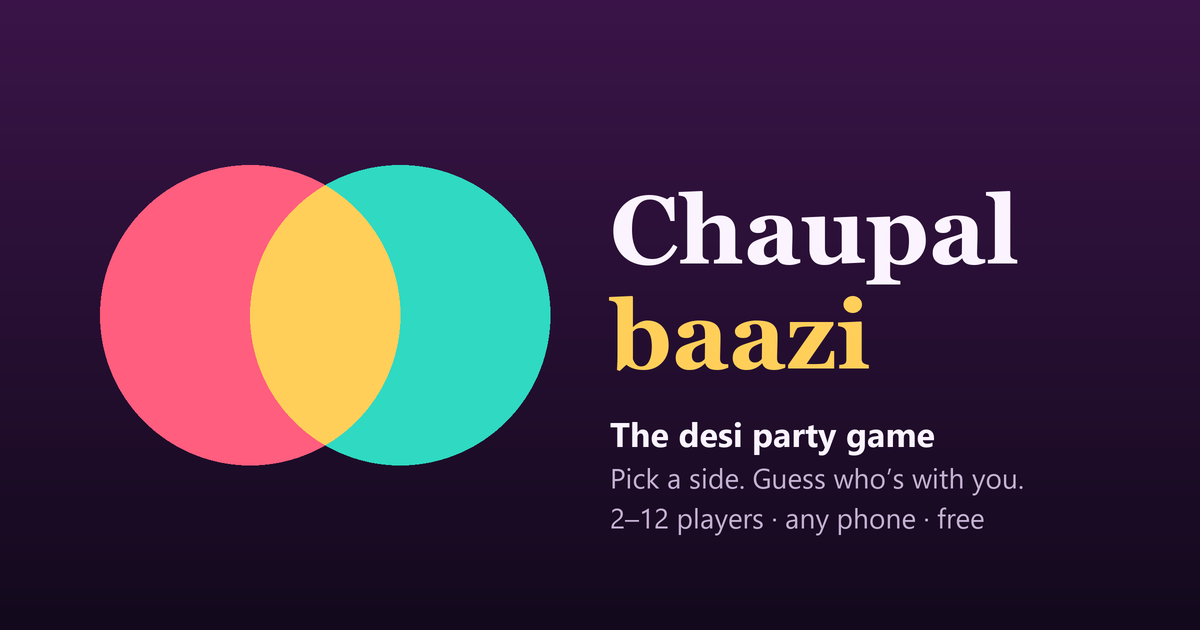
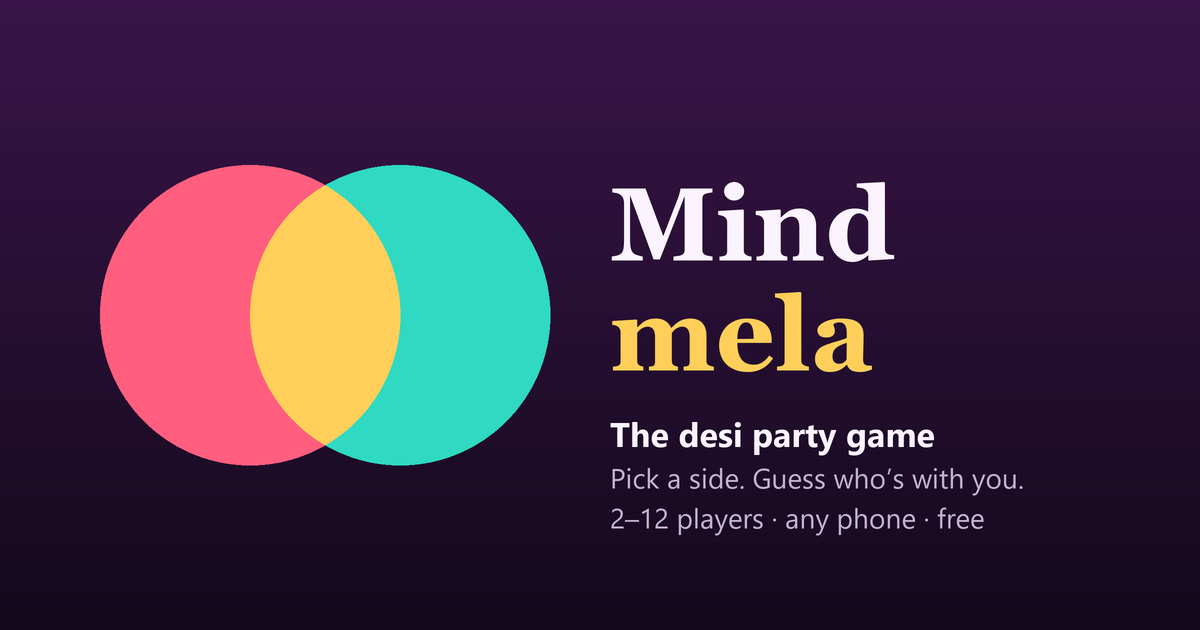
Rename the game to Mindmela
A more professional name that is still unused anywhere online. Updates
the page title, search data, share image, app name, links and README.

Changed region(s): [[0.4933, 0.2714, 0.8633, 0.6032]]

diff --git a/index.html b/index.html
@@ -3,42 +3,42 @@
 <head>
   <meta charset="utf-8">
   <meta name="viewport" content="width=device-width, initial-scale=1, viewport-fit=cover">
-  <title>Chaupalbaazi – Free Desi Party Game for Friends &amp; Family</title>
-  <meta name="description" content="Chaupalbaazi is a free desi party game. Pick a side on funny Hinglish questions from Meerut and Bulandshahr, guess who's with you, and play live with 2–12 friends on any phone.">
-  <meta name="keywords" content="Chaupalbaazi, desi party game, Hinglish game, online party game India, would you rather Hindi, Meerut, Bulandshahr, multiplayer phone game">
+  <title>Mindmela – Free Desi Party Game for Friends &amp; Family</title>
+  <meta name="description" content="Mindmela is a free desi party game. Pick a side on funny Hinglish questions from Meerut and Bulandshahr, guess who's with you, and play live with 2–12 friends on any phone.">
+  <meta name="keywords" content="Mindmela, Mind Mela, desi party game, Hinglish game, online party game India, would you rather Hindi, Meerut, Bulandshahr, multiplayer phone game">
   <meta name="author" content="Lalit Bhardwaj">
   <meta name="robots" content="index, follow">
-  <link rel="canonical" href="https://lalitbhardwaj2002.github.io/chaupalbaazi/">
+  <link rel="canonical" href="https://lalitbhardwaj2002.github.io/mindmela/">
   <meta name="theme-color" content="#12091c">
 
   <meta property="og:type" content="website">
-  <meta property="og:site_name" content="Chaupalbaazi">
-  <meta property="og:title" content="Chaupalbaazi – the desi party game">
+  <meta property="og:site_name" content="Mindmela">
+  <meta property="og:title" content="Mindmela – the desi party game">
   <meta property="og:description" content="Pick a side. Guess who's with you. Free, live, 2–12 players on any phone — no sign-up.">
-  <meta property="og:url" content="https://lalitbhardwaj2002.github.io/chaupalbaazi/">
-  <meta property="og:image" content="https://lalitbhardwaj2002.github.io/chaupalbaazi/og-image.png">
+  <meta property="og:url" content="https://lalitbhardwaj2002.github.io/mindmela/">
+  <meta property="og:image" content="https://lalitbhardwaj2002.github.io/mindmela/og-image.png">
   <meta property="og:image:width" content="1200">
   <meta property="og:image:height" content="630">
   <meta property="og:locale" content="en_IN">
   <meta name="twitter:card" content="summary_large_image">
-  <meta name="twitter:title" content="Chaupalbaazi – the desi party game">
+  <meta name="twitter:title" content="Mindmela – the desi party game">
   <meta name="twitter:description" content="Pick a side. Guess who's with you. Free, live, 2–12 players on any phone.">
-  <meta name="twitter:image" content="https://lalitbhardwaj2002.github.io/chaupalbaazi/og-image.png">
+  <meta name="twitter:image" content="https://lalitbhardwaj2002.github.io/mindmela/og-image.png">
 
   <script type="application/ld+json">
   {
     "@context": "https://schema.org",
     "@type": "WebApplication",
-    "name": "Chaupalbaazi",
-    "alternateName": ["Chaupal Baazi", "Chaupalbazi"],
-    "url": "https://lalitbhardwaj2002.github.io/chaupalbaazi/",
+    "name": "Mindmela",
+    "alternateName": ["Mind Mela", "MindMela"],
+    "url": "https://lalitbhardwaj2002.github.io/mindmela/",
     "description": "A free desi party game. Pick a side on funny Hinglish questions, guess how many friends picked the same, and play live with 2–12 players on any phone.",
     "applicationCategory": "GameApplication",
     "genre": "Party game",
     "operatingSystem": "Any",
     "browserRequirements": "Requires a modern web browser",
     "inLanguage": ["en-IN", "hi-Latn"],
-    "image": "https://lalitbhardwaj2002.github.io/chaupalbaazi/og-image.png",
+    "image": "https://lalitbhardwaj2002.github.io/mindmela/og-image.png",
     "offers": { "@type": "Offer", "price": "0", "priceCurrency": "INR" },
     "author": { "@type": "Person", "name": "Lalit Bhardwaj" }
   }
@@ -49,7 +49,7 @@
   <link rel="apple-touch-icon" href="icons/apple-touch-icon.png">
   <meta name="mobile-web-app-capable" content="yes">
   <meta name="apple-mobile-web-app-capable" content="yes">
-  <meta name="apple-mobile-web-app-title" content="Chaupalbaazi">
+  <meta name="apple-mobile-web-app-title" content="Mindmela">
   <meta name="apple-mobile-web-app-status-bar-style" content="black-translucent">
   <link rel="preconnect" href="https://fonts.googleapis.com">
   <link rel="preconnect" href="https://fonts.gstatic.com" crossorigin>
@@ -59,14 +59,14 @@
 <body data-screen="home">
   <main id="app" class="app" aria-live="polite">
     <section class="hero">
-      <h1 class="title">Chaupal<em>baazi</em></h1>
+      <h1 class="title">Mind<em>mela</em></h1>
       <p class="tagline">The desi party game: pick a side, guess who’s with you.</p>
     </section>
   </main>
 
   <footer class="about">
-    <h2>What is Chaupalbaazi?</h2>
-    <p>Chaupalbaazi is a free online desi party game for 2–12 players, inspired by the village <em>chaupal</em> where everyone gathers to argue about everything. Each round asks a funny Hinglish question — <em>Sarkari naukri ya private?</em> <em>Meerut ki gajak ya Khurja ki khurchan?</em> — and you guess how many of your friends picked the same answer as you.</p>
+    <h2>What is Mindmela?</h2>
+    <p>Mindmela (Mind Mela) is a free online desi party game for 2–12 players: a <em>mela</em> of minds, where everyone brings an opinion and the fun is guessing who thinks like you. Each round asks a funny Hinglish question — <em>Sarkari naukri ya private?</em> <em>Meerut ki gajak ya Khurja ki khurchan?</em> — and you guess how many of your friends picked the same answer as you.</p>
     <h2>How to play</h2>
     <ol>
       <li>One person creates a room and shares the 4-letter code or QR code.</li>
@@ -75,8 +75,8 @@
       <li>See who picked what, argue about it, and win awards like The Rebel and Twin Souls.</li>
     </ol>
     <h2>Thousands of desi questions</h2>
-    <p>Question packs include Desi Bulandshahr, Meerut Side, Family, Grown-ups and Hot Takes, with over 9,000 questions about food, weddings, relatives, jobs, villages and more. Play a quick game or go endless. Chaupalbaazi works in any browser and can be installed on your phone like an app.</p>
-    <p class="made">Made with ❤ in western UP · <a href="https://github.com/Lalitbhardwaj2002/chaupalbaazi">Source code</a></p>
+    <p>Question packs include Desi Bulandshahr, Meerut Side, Family, Grown-ups and Hot Takes, with over 9,000 questions about food, weddings, relatives, jobs, villages and more. Play a quick game or go endless. Mindmela works in any browser and can be installed on your phone like an app.</p>
+    <p class="made">Made with ❤ in western UP · <a href="https://github.com/Lalitbhardwaj2002/mindmela">Source code</a></p>
   </footer>
 
   <div id="banner" class="banner" role="status" hidden></div>

diff --git a/game.js b/game.js
@@ -1,4 +1,4 @@
-/* Chaupalbaazi — a real-time desi party game.
+/* Mindmela — a real-time desi party game.
  *
  * Each question has two answers. Everyone picks a side, then guesses how many
  * people (including themselves) picked the same. Exactly right scores 3,
@@ -20,7 +20,7 @@
 'use strict';
 
 const CONFIG = {
-  peerPrefix: 'chaupalbaazi-v1-',
+  peerPrefix: 'mindmela-v1-',
   answerSeconds: 30,
   revealSeconds: 60, // the host usually moves on sooner; this keeps a stalled game going
   maxPlayers: 12,
@@ -131,10 +131,10 @@ function championPrompt(s, used) {
 
 // Who am I? The id lives in sessionStorage, so it survives a refresh but each tab is its own player.
 const me = {
-  id: store.get('sessionStorage', 'cb-id') || makeId(),
-  name: store.get('localStorage', 'cb-name') || '',
+  id: store.get('sessionStorage', 'mm-id') || makeId(),
+  name: store.get('localStorage', 'mm-name') || '',
 };
-store.set('sessionStorage', 'cb-id', me.id);
+store.set('sessionStorage', 'mm-id', me.id);
 
 const ui = {
   screen: 'home',   // home | busy | error | game
@@ -166,7 +166,7 @@ function openRoom(code, saved = null, attempt = 0) {
     if (saved) host.state.players.forEach((p) => { if (p.id !== me.id) p.connected = false; });
     else addPlayer(me.id, me.name);
     net = { role: 'host', code };
-    store.set('sessionStorage', 'cb-role', 'host');
+    store.set('sessionStorage', 'mm-role', 'host');
     setRoomInUrl(code);
     resumeHostTimer();
     clearInterval(host.loop);
@@ -450,7 +450,7 @@ function resumeHostTimer() {
 }
 
 function hostChanged() {
-  store.set('sessionStorage', 'cb-host', JSON.stringify({ state: host.state, answers: host.answers }));
+  store.set('sessionStorage', 'mm-host', JSON.stringify({ state: host.state, answers: host.answers }));
   broadcast();
 }
 
@@ -510,7 +510,7 @@ function joinRoom(code) {
     reconnectingSince: 0, retryTimer: null, watch: null,
   };
   net = g;
-  store.set('sessionStorage', 'cb-role', 'guest');
+  store.set('sessionStorage', 'mm-role', 'guest');
   setRoomInUrl(code);
   makeGuestPeer(g);
   g.watch = setInterval(guestWatchdog, CONFIG.heartbeatMs);
@@ -625,8 +625,8 @@ function leaveGame() {
 }
 
 function forgetRoom() {
-  store.del('sessionStorage', 'cb-role');
-  store.del('sessionStorage', 'cb-host');
+  store.del('sessionStorage', 'mm-role');
+  store.del('sessionStorage', 'mm-host');
   ui.view = null;
   ui.stageKey = '';
 }
@@ -1048,7 +1048,7 @@ function renderHome() {
        </form>`;
   app.innerHTML = `
     <section class="hero">
-      <h1 class="title">Chaupal<em>baazi</em></h1>
+      <h1 class="title">Mind<em>mela</em></h1>
       <p class="tagline">The desi party game: pick a side, guess who’s with you.</p>
       <div class="demo" aria-hidden="true"><span class="da">🍬 Meerut ki gajak</span><span class="dor">or</span><span class="db">🍮 Khurja ki khurchan</span></div>
     </section>
@@ -1091,7 +1091,7 @@ function enterGame() {
 // When the host runs the game on their own computer, "localhost" in a link would point at each
 // friend's own phone. Rooms meet on the PeerJS server whichever copy of the game people open,
 // so local hosts send friends to the public site instead.
-const PUBLIC_URL = 'https://lalitbhardwaj2002.github.io/chaupalbaazi/';
+const PUBLIC_URL = 'https://lalitbhardwaj2002.github.io/mindmela/';
 const isLocalHost = () => location.protocol === 'file:'
   || ['localhost', '127.0.0.1', '[::1]'].includes(location.hostname) || location.hostname.endsWith('.localhost');
 const joinBase = () => (isLocalHost() ? PUBLIC_URL : `${location.origin}${location.pathname}`);
@@ -1176,7 +1176,7 @@ const actions = {
   copy: copyInvite,
   share() {
     const code = ui.view.code;
-    navigator.share({ title: 'Chaupalbaazi', text: `Join my Chaupalbaazi game! Room code ${code}`, url: inviteUrl(code) }).catch(() => {});
+    navigator.share({ title: 'Mindmela', text: `Join my Mindmela game! Room code ${code}`, url: inviteUrl(code) }).catch(() => {});
   },
   async install() {
     if (!installPrompt) return;
@@ -1208,7 +1208,7 @@ document.addEventListener('submit', (e) => {
   const name = cleanName(nameInput && nameInput.value);
   if (!name) { flagInvalid('name-field', nameInput); return; }
   me.name = name;
-  store.set('localStorage', 'cb-name', name);
+  store.set('localStorage', 'mm-name', name);
   sfx.unlock();
   if (form.dataset.form === 'create') {
     openRoom(randomCode());
@@ -1284,7 +1284,7 @@ function releaseWakeLock() { if (wakeLock) wakeLock.release().catch(() => {}); w
 // ---------- sound (synthesised, no audio files) ----------
 const sfx = (() => {
   let ctx = null;
-  let muted = store.get('localStorage', 'cb-muted') === '1';
+  let muted = store.get('localStorage', 'mm-muted') === '1';
   const ready = () => ctx && !muted;
   function tone(freq, start, dur, type = 'triangle', vol = 0.12, slideTo = 0) {
     if (!ready()) return;
@@ -1309,7 +1309,7 @@ const sfx = (() => {
         if (ctx && ctx.state === 'suspended') ctx.resume();
       } catch { /* no audio */ }
     },
-    toggle() { muted = !muted; store.set('localStorage', 'cb-muted', muted ? '1' : '0'); return muted; },
+    toggle() { muted = !muted; store.set('localStorage', 'mm-muted', muted ? '1' : '0'); return muted; },
     tick: () => tone(1250, 0, 0.05, 'square', 0.035),
     pick: () => tone(620, 0, 0.08),
     start() { tone(392, 0, 0.14); tone(587, 0.12, 0.22); },
@@ -1334,10 +1334,10 @@ function boot() {
     return;
   }
   const code = normalizeCode(new URLSearchParams(location.search).get('room'));
-  const role = store.get('sessionStorage', 'cb-role');
+  const role = store.get('sessionStorage', 'mm-role');
   if (code && role === 'host') {
     let saved = null;
-    try { saved = JSON.parse(store.get('sessionStorage', 'cb-host') || 'null'); } catch { /* corrupt: start fresh */ }
+    try { saved = JSON.parse(store.get('sessionStorage', 'mm-host') || 'null'); } catch { /* corrupt: start fresh */ }
     if (savedGameUsable(saved) && saved.state.code === code) { openRoom(code, saved); return; }
   }
   if (code && role === 'guest' && me.name) { joinRoom(code); return; }

diff --git a/sw.js b/sw.js
@@ -1,11 +1,11 @@
-/* Service worker: lets Chaupalbaazi install as an app and open instantly.
+/* Service worker: lets Mindmela install as an app and open instantly.
  * Game files are fetched from the network first, so players always get the latest version,
  * with the saved copy as a fallback. The CDN libraries and fonts never change at a given URL,
  * so they're served from the saved copy once fetched.
  */
 'use strict';
 
-const CACHE = 'chaupalbaazi-v1';
+const CACHE = 'mindmela-v1';
 const SHELL = ['./', './index.html', './style.css', './game.js', './questions.js', './manifest.json',
   './icons/icon-192.png', './icons/icon-512.png'];
 const CDN = ['https://cdnjs.cloudflare.com/ajax/libs/peerjs/1.5.4/peerjs.min.js',

diff --git a/questions.js b/questions.js
@@ -1,4 +1,4 @@
-/* Questions for Chaupalbaazi — in Hinglish, with a west UP (Bulandshahr and Meerut) flavour.
+/* Questions for Mindmela — in Hinglish, with a west UP (Bulandshahr and Meerut) flavour.
  *
  * PACKS holds hand-written questions: [question, 'emoji Answer A', 'emoji Answer B'].
  * GEN holds the question generator's ingredients. Each category has question frames and a pool

diff --git a/README.md b/README.md
@@ -1,10 +1,10 @@
-# 🔮 Chaupalbaazi — the desi party game
+# 🔮 Mindmela — the desi party game
 
 **Pick a side. Guess who's with you.**
 
-Chaupalbaazi is a free live party game for 2–12 players. The name mixes the village *chaupal*, where everyone gathers to argue, with *baazi*, a game. The game itself is in English; the questions are in desi Hinglish from Meerut and Bulandshahr. Friends join from any phone with a 4-letter room code or a QR scan, with no sign-up, and it installs on your phone like an app.
+Mindmela is a free live party game for 2–12 players. The name means a *mela* (fair) of minds: everyone brings an opinion, and the fun is guessing who thinks like you. The game itself is in English; the questions are in desi Hinglish from Meerut and Bulandshahr. Friends join from any phone with a 4-letter room code or a QR scan, with no sign-up, and it installs on your phone like an app.
 
-**Play now:** https://lalitbhardwaj2002.github.io/chaupalbaazi/
+**Play now:** https://lalitbhardwaj2002.github.io/mindmela/
 
 ## How to play
 
@@ -51,17 +51,17 @@ A room never sees the same pair of answers twice until it has used up the pack. 
 
 ## Getting found in search
 
-"Chaupalbaazi" is a made-up word that no other website uses, so once search engines list the site, searching for it should bring up this game. The page includes:
+"Mindmela" is a made-up word that no other website uses, so once search engines list the site, searching for it should bring up this game. The page includes:
 
 - A search title, description and keywords, and a share preview image (`og-image.png`)
 - Structured data that tells Google it's a free web game
-- A "What is Chaupalbaazi?" section on the home page that search engines can read
+- A "What is Mindmela?" section on the home page that search engines can read
 - `sitemap.xml`, plus a Bing/IndexNow key file (`fa5abe8ca70029f6cf7b3495dd5bdf01.txt`)
 
 **To get on Google faster (needs your Google account, about 5 minutes):**
 
 1. Go to https://search.google.com/search-console and click **Add property** → **URL prefix**.
-2. Enter `https://lalitbhardwaj2002.github.io/chaupalbaazi/`.
+2. Enter `https://lalitbhardwaj2002.github.io/mindmela/`.
 3. Choose the **HTML tag** method. Copy the `<meta name="google-site-verification" …>` tag and add it to `index.html` next to the other `<meta>` tags. Push the change, then click **Verify**.
 4. Open **Sitemaps** and submit `sitemap.xml`.
 5. Open **URL inspection**, paste the play link, and click **Request indexing**.
@@ -94,4 +94,4 @@ Then open http://localhost:8000. When you host from your own computer, the QR co
 
 ## Project description (for your submission)
 
-> **Chaupalbaazi** is a desi party game about how well you know your people. Each round asks a Hinglish dilemma straight from Meerut and Bulandshahr, like "Sarkari naukri kam tankhwah, ya private moti tankhwah?" or "Har shaadi mein naraaz kaun: Phufa ji ya Jija ji?" Everyone secretly picks a side, then guesses how many friends picked the same. Guess exactly and you score. Then the reveal puts everyone's names on screen, and the arguing begins. A question generator builds over 9,000 questions from desi ingredients. Champion rounds bring back the room's last winning answer to face a new challenger, so every game plays differently. Friends join from any phone with a 4-letter code, with no accounts, and it installs like an app. Every screen stays in sync in real time, ending with awards like The Rebel and Twin Souls.
+> **Mindmela** is a desi party game about how well you know your people. Each round asks a Hinglish dilemma straight from Meerut and Bulandshahr, like "Sarkari naukri kam tankhwah, ya private moti tankhwah?" or "Har shaadi mein naraaz kaun: Phufa ji ya Jija ji?" Everyone secretly picks a side, then guesses how many friends picked the same. Guess exactly and you score. Then the reveal puts everyone's names on screen, and the arguing begins. A question generator builds over 9,000 questions from desi ingredients. Champion rounds bring back the room's last winning answer to face a new challenger, so every game plays differently. Friends join from any phone with a 4-letter code, with no accounts, and it installs like an app. Every screen stays in sync in real time, ending with awards like The Rebel and Twin Souls.
